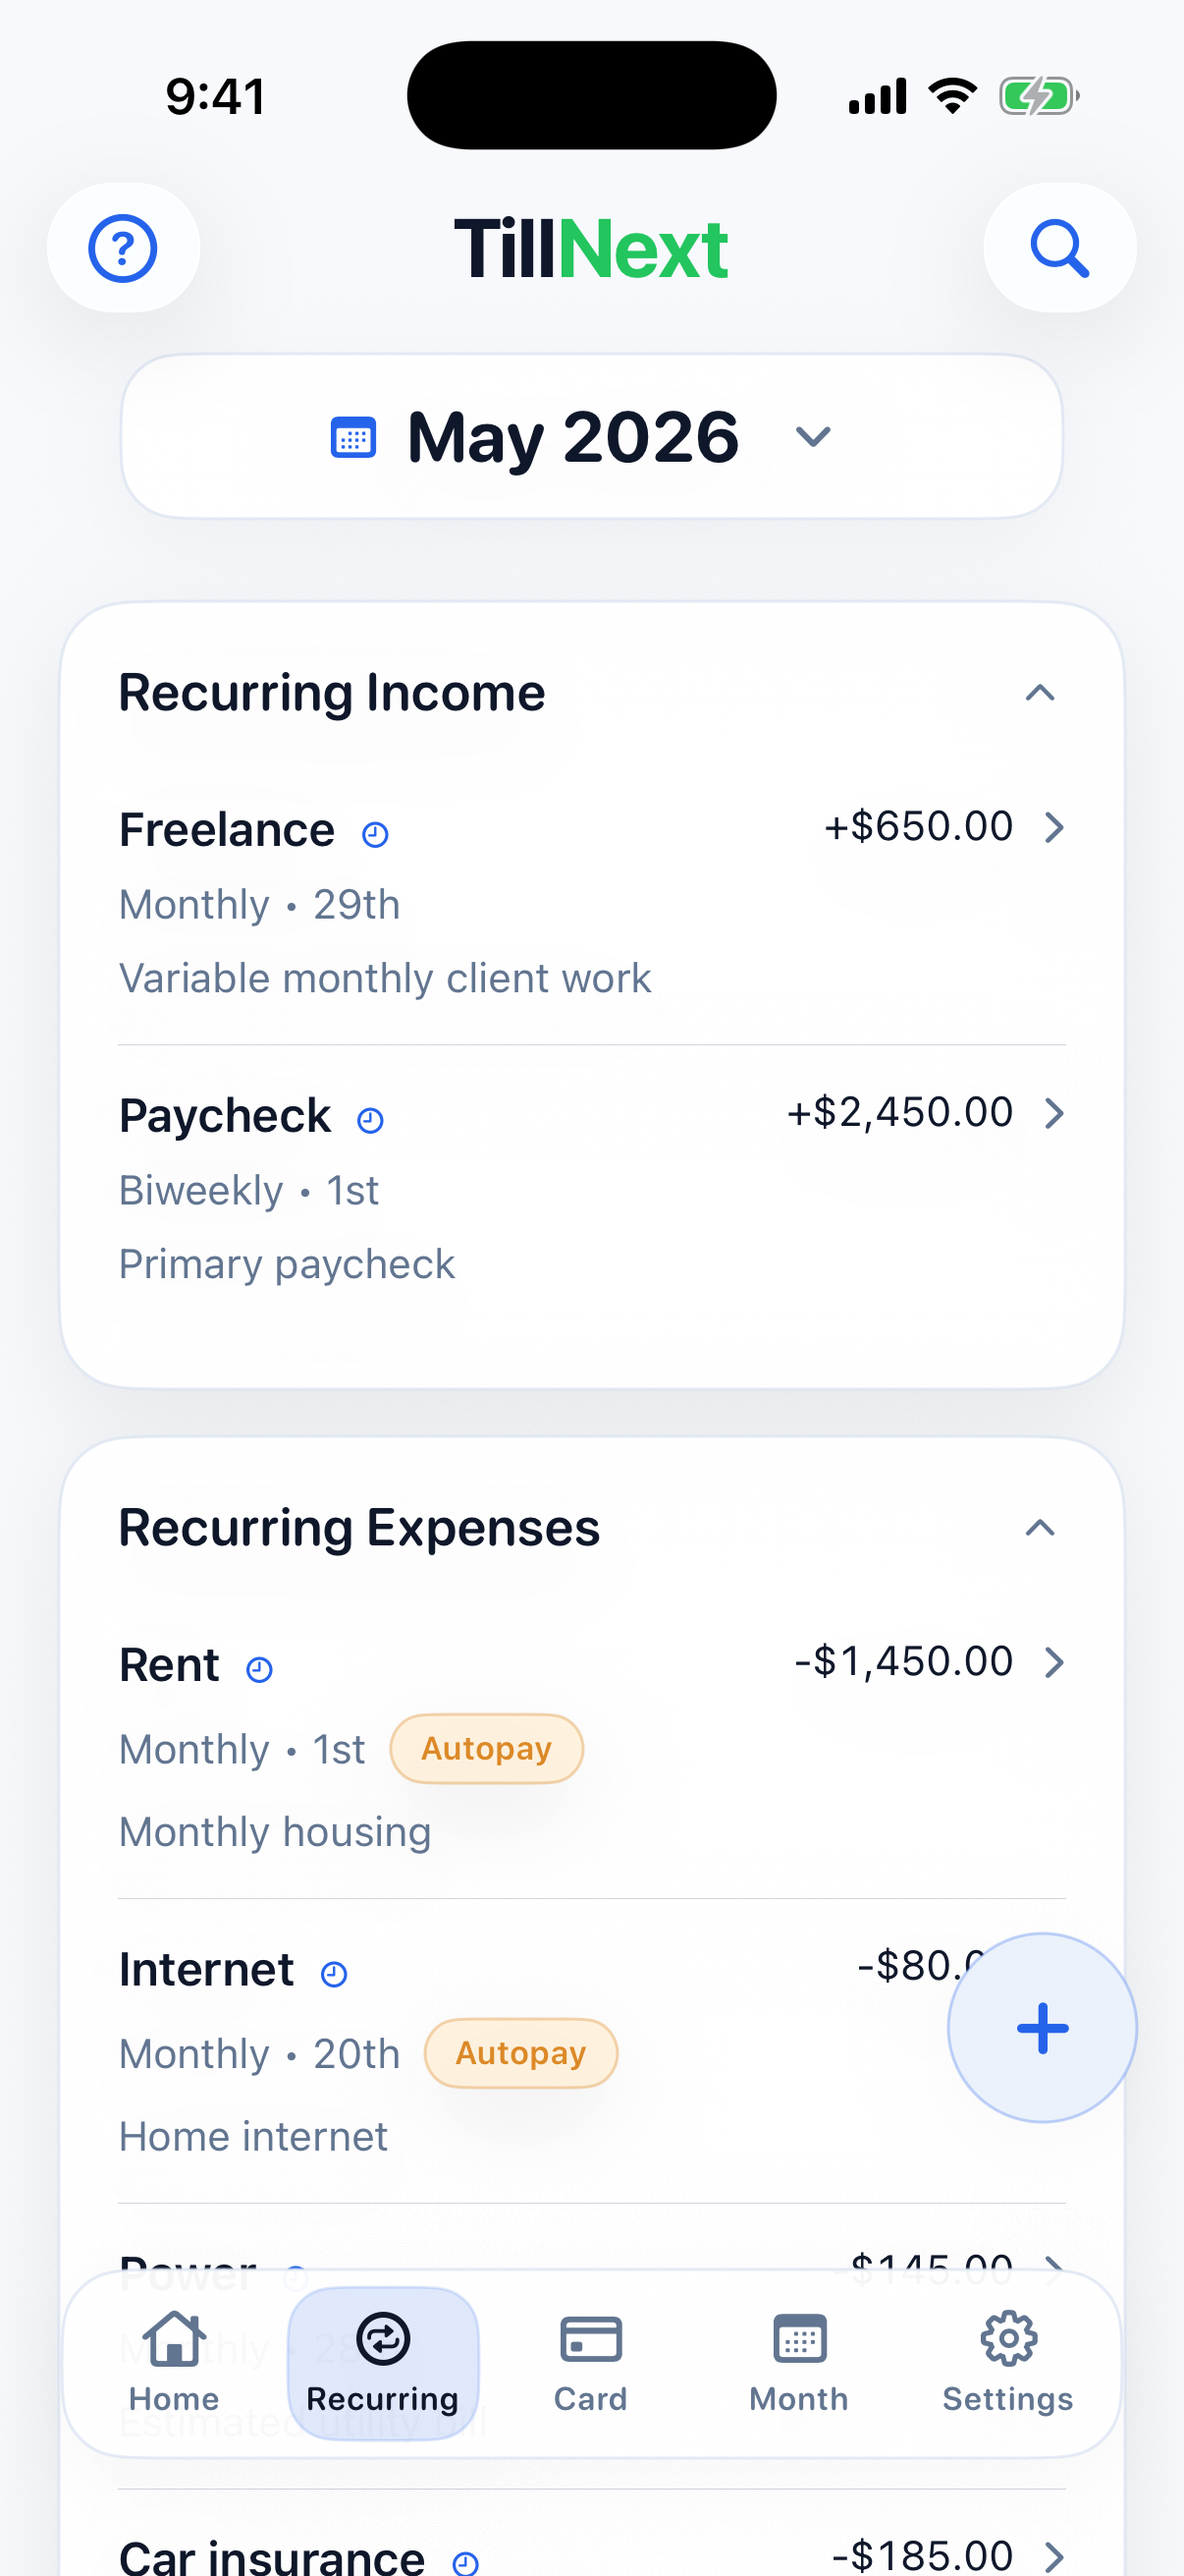
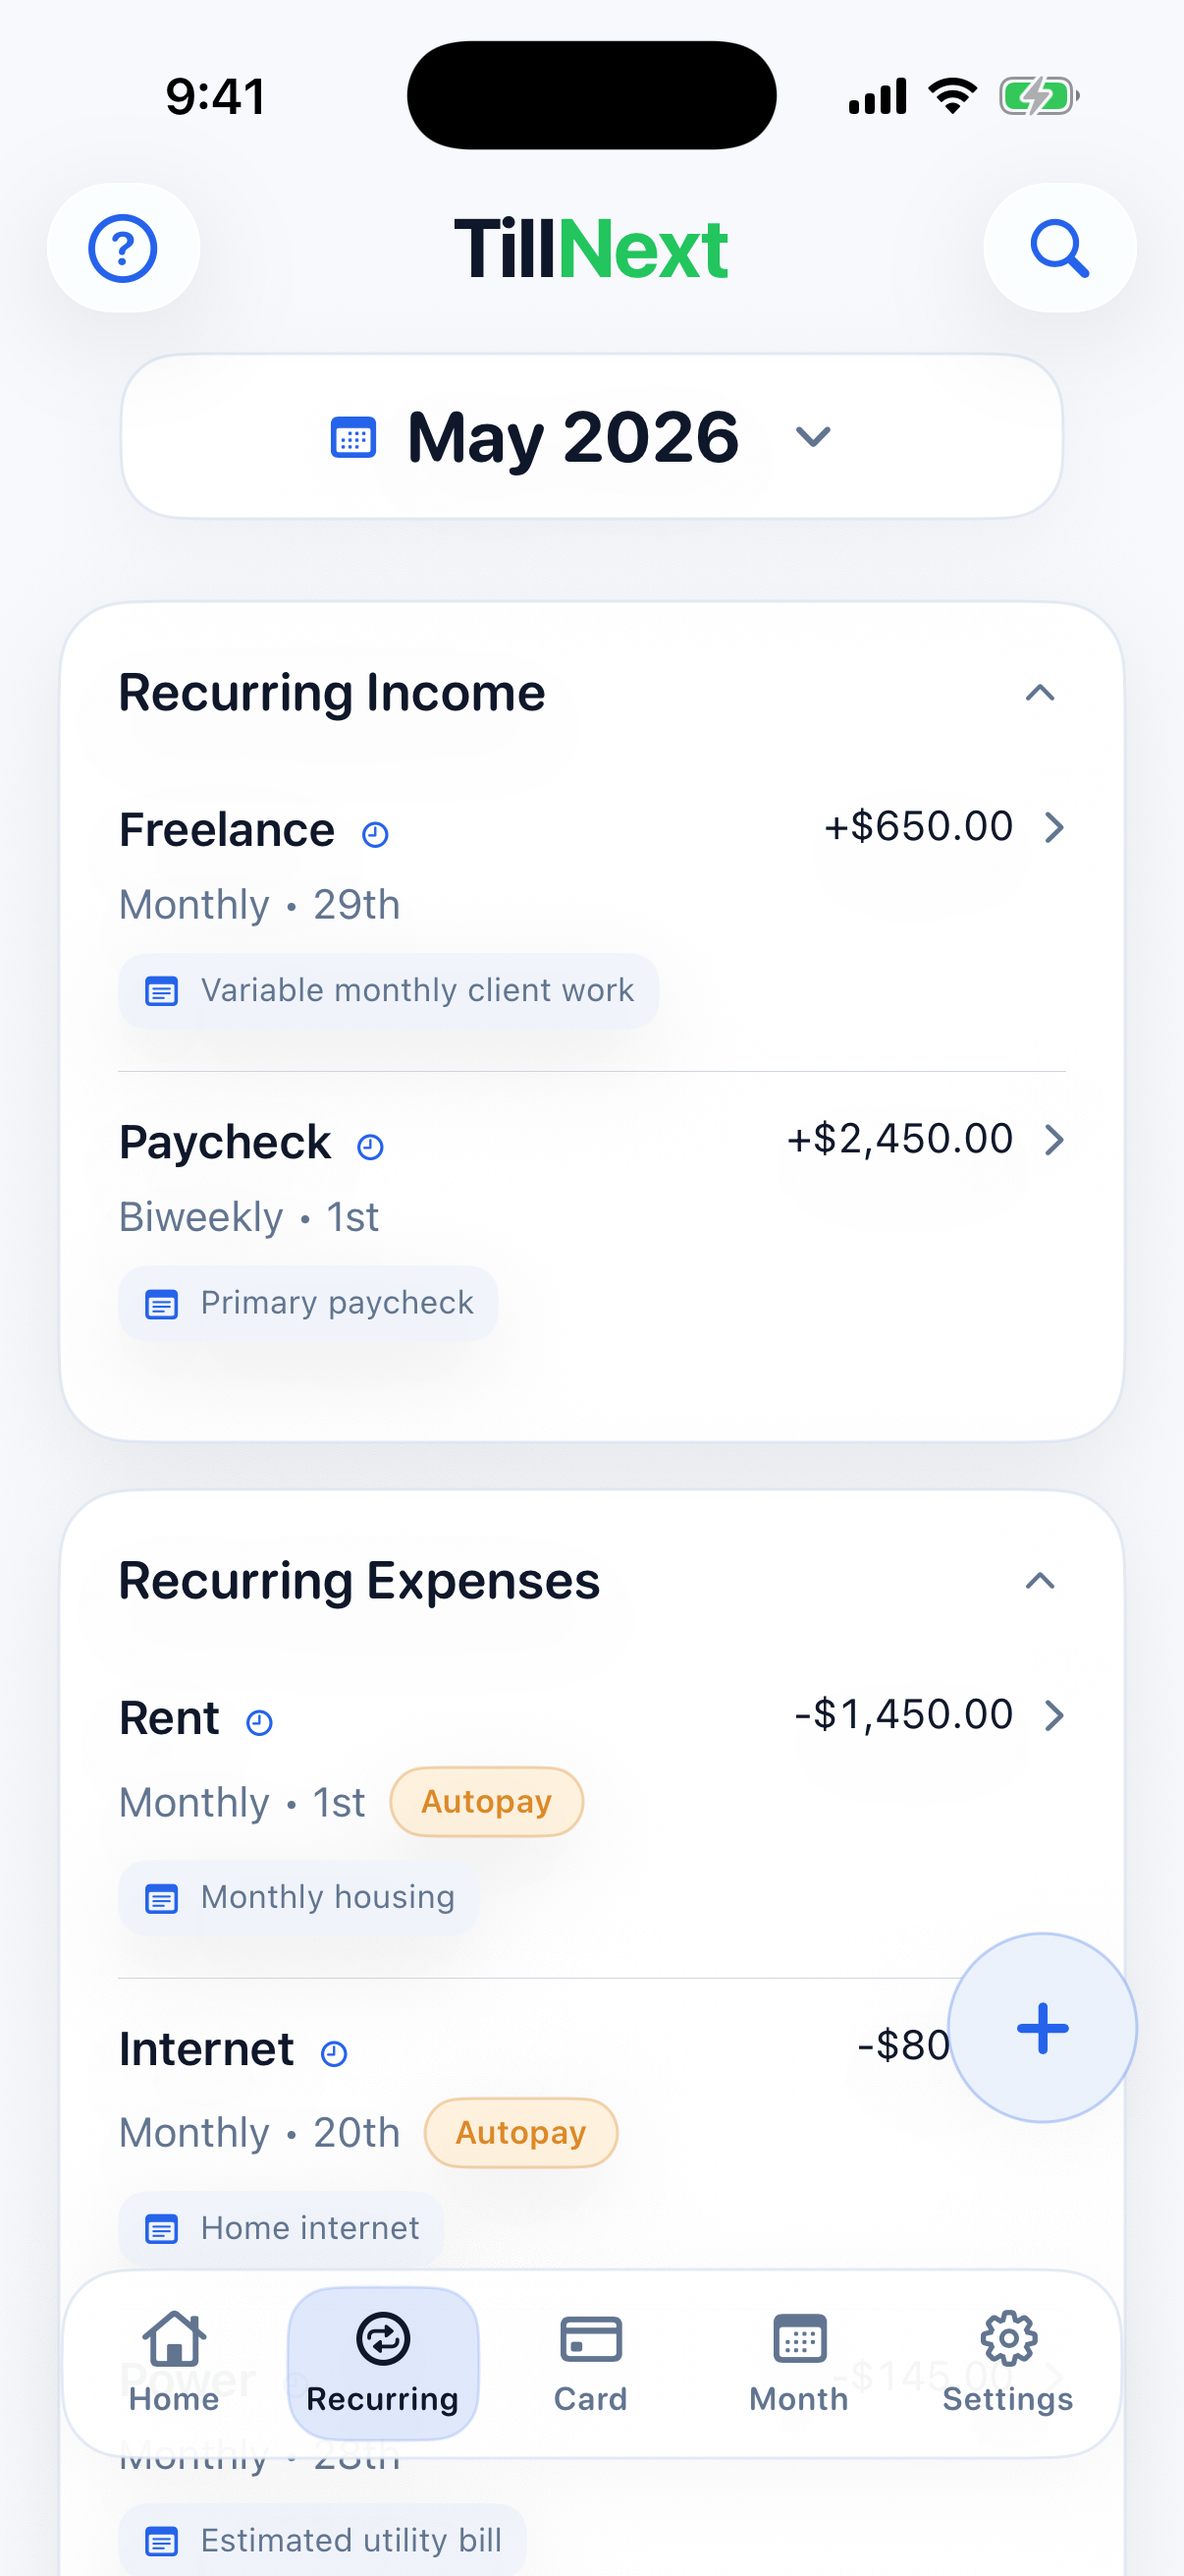
Refresh screenshots for build 290

diff --git a/changelog/index.html b/changelog/index.html
@@ -5,7 +5,7 @@
     <meta name="viewport" content="width=device-width, initial-scale=1">
     <title>TillNext: Paycheck Planner Changelog</title>
     <meta name="description" content="Public changelog for TillNext: Paycheck Planner.">
-    <link rel="stylesheet" href="../styles.css?v=20260509-build289">
+    <link rel="stylesheet" href="../styles.css?v=20260509-build290">
   </head>
   <body>
     <main>
@@ -23,6 +23,10 @@
       <p><strong>Updated:</strong> May 9, 2026</p>
       <h3>May 9, 2026</h3>
       <ul>
+        <li>Prepared build 290 for pre-launch testing.</li>
+        <li>Fixed item notes so tapping the notes button opens a small editor without closing the item being added or edited.</li>
+        <li>Added compact note previews on Home and Recurring rows so saved notes stay visible after leaving the editor.</li>
+        <li>Removed the bottom month picker placement option so the month picker stays consistently at the top of planning screens.</li>
         <li>Prepared build 289 for pre-launch testing.</li>
         <li>Made item notes available from a small notes button in edit screens, so the main edit form stays short and easier to scan.</li>
         <li>Improved recurring expense payoff calculator entry so amount fields respond immediately and open the keyboard more reliably.</li>
@@ -164,7 +168,7 @@
       <p>For technical bug reports, use <a href="https://github.com/xwhiptail/tillnext-site/issues">GitHub Issues</a>.</p>
 
       <footer>
-        <span>Last updated: May 8, 2026</span>
+        <span>Last updated: May 9, 2026</span>
       </footer>
     </main>
   </body>
